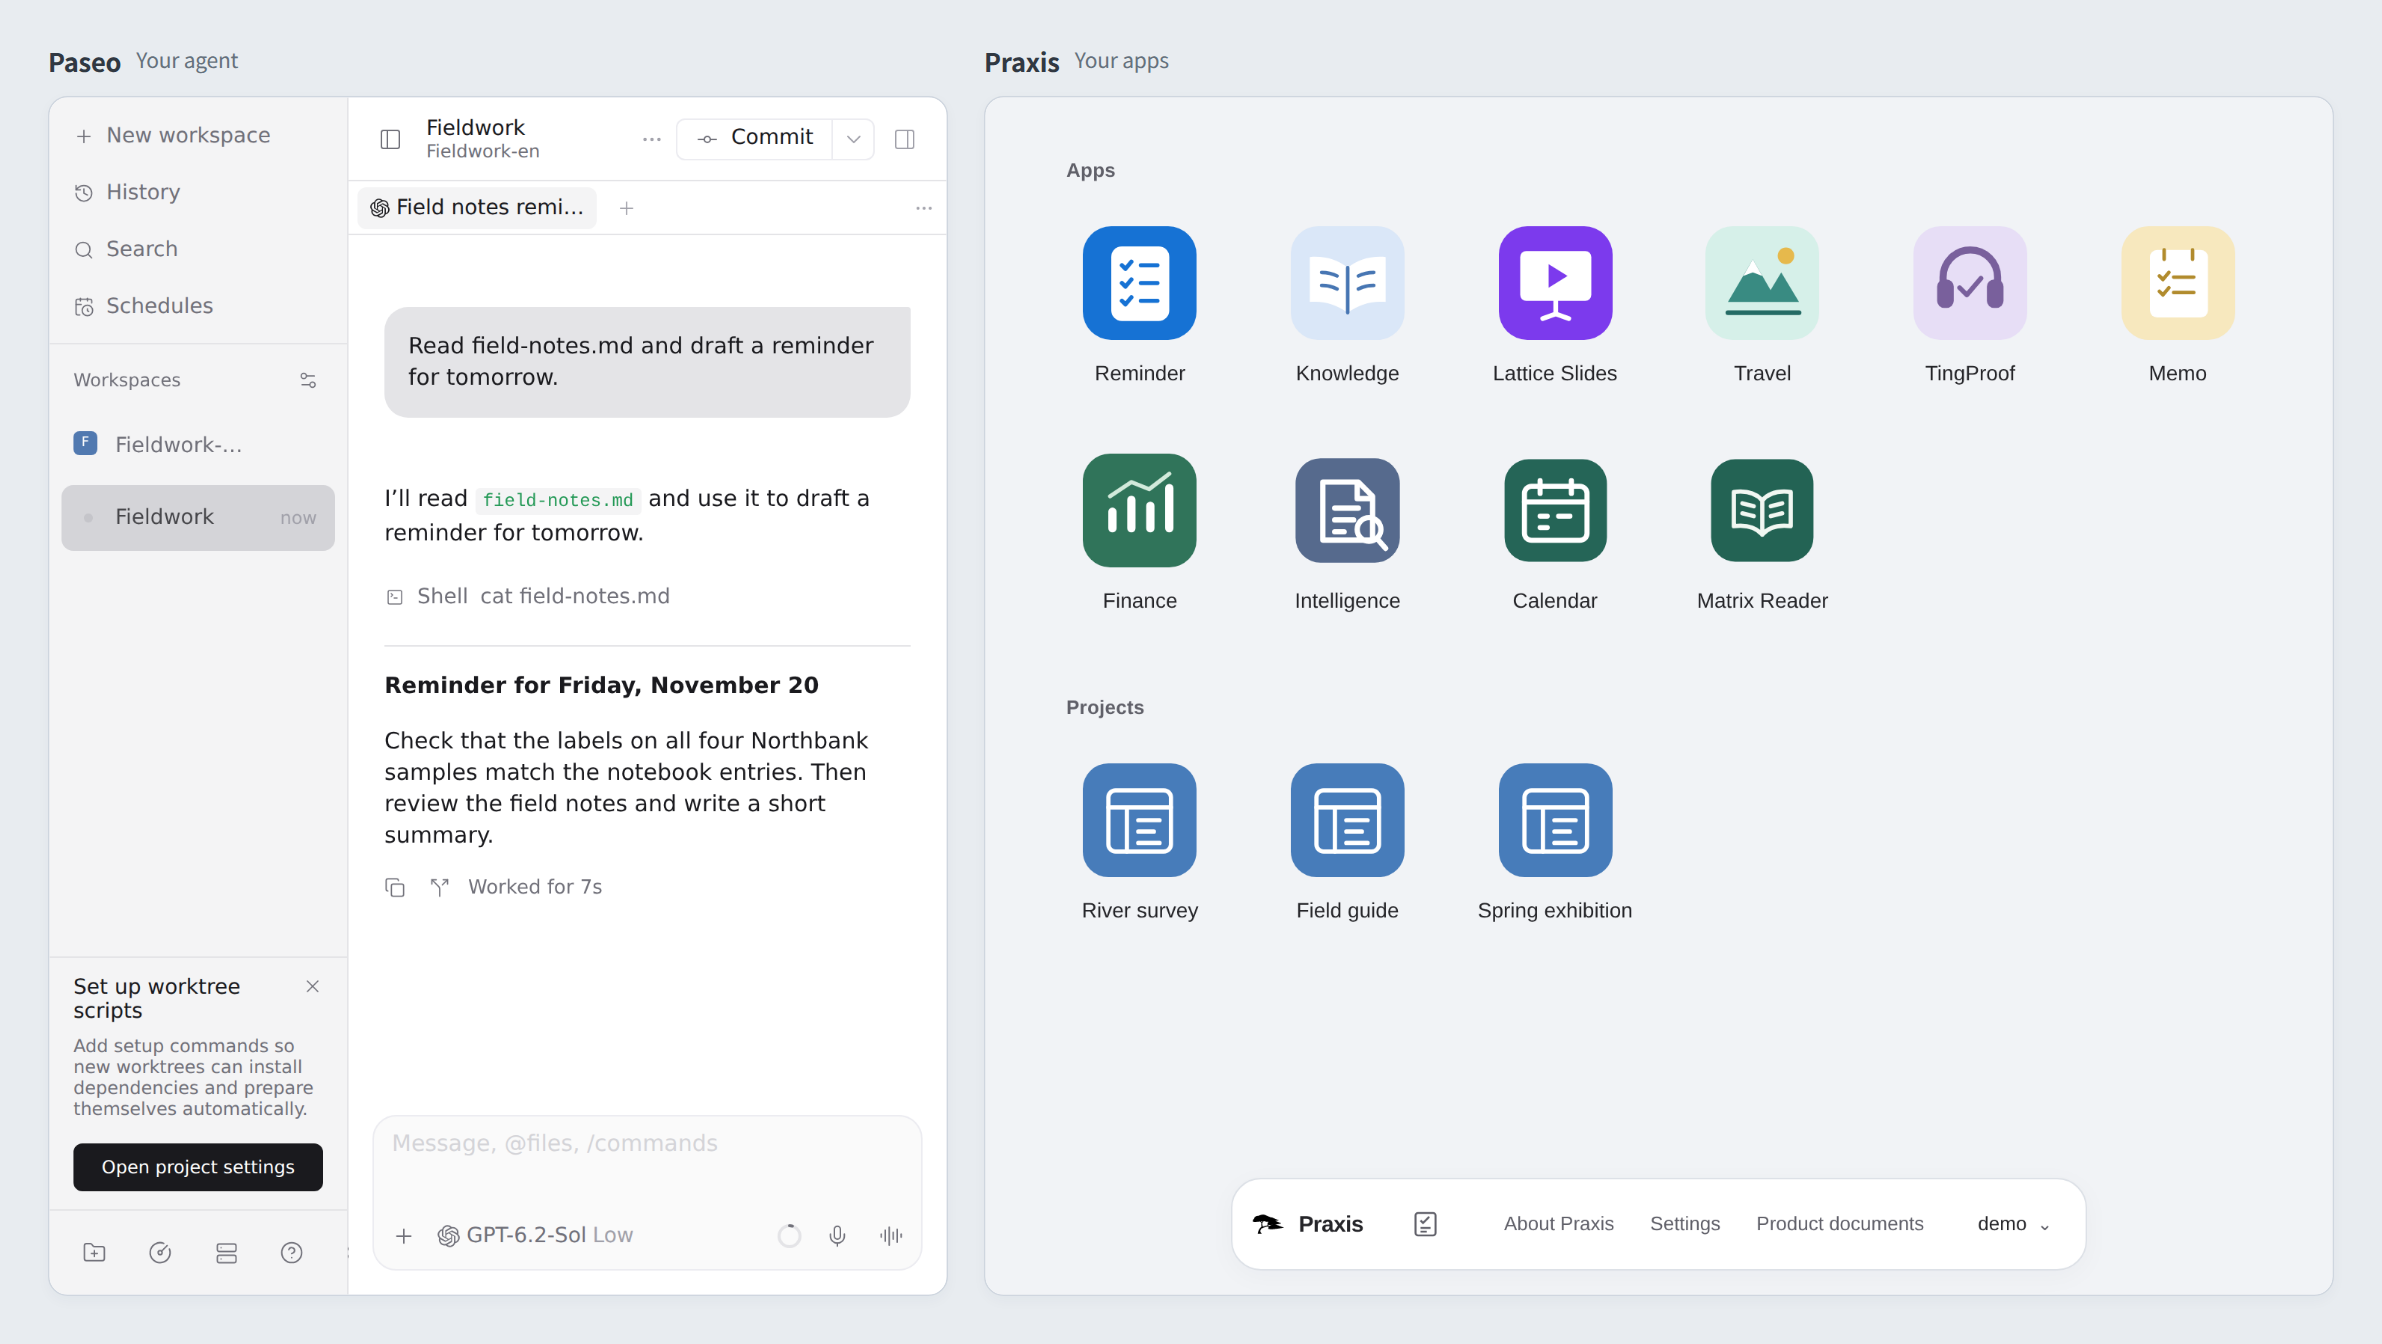
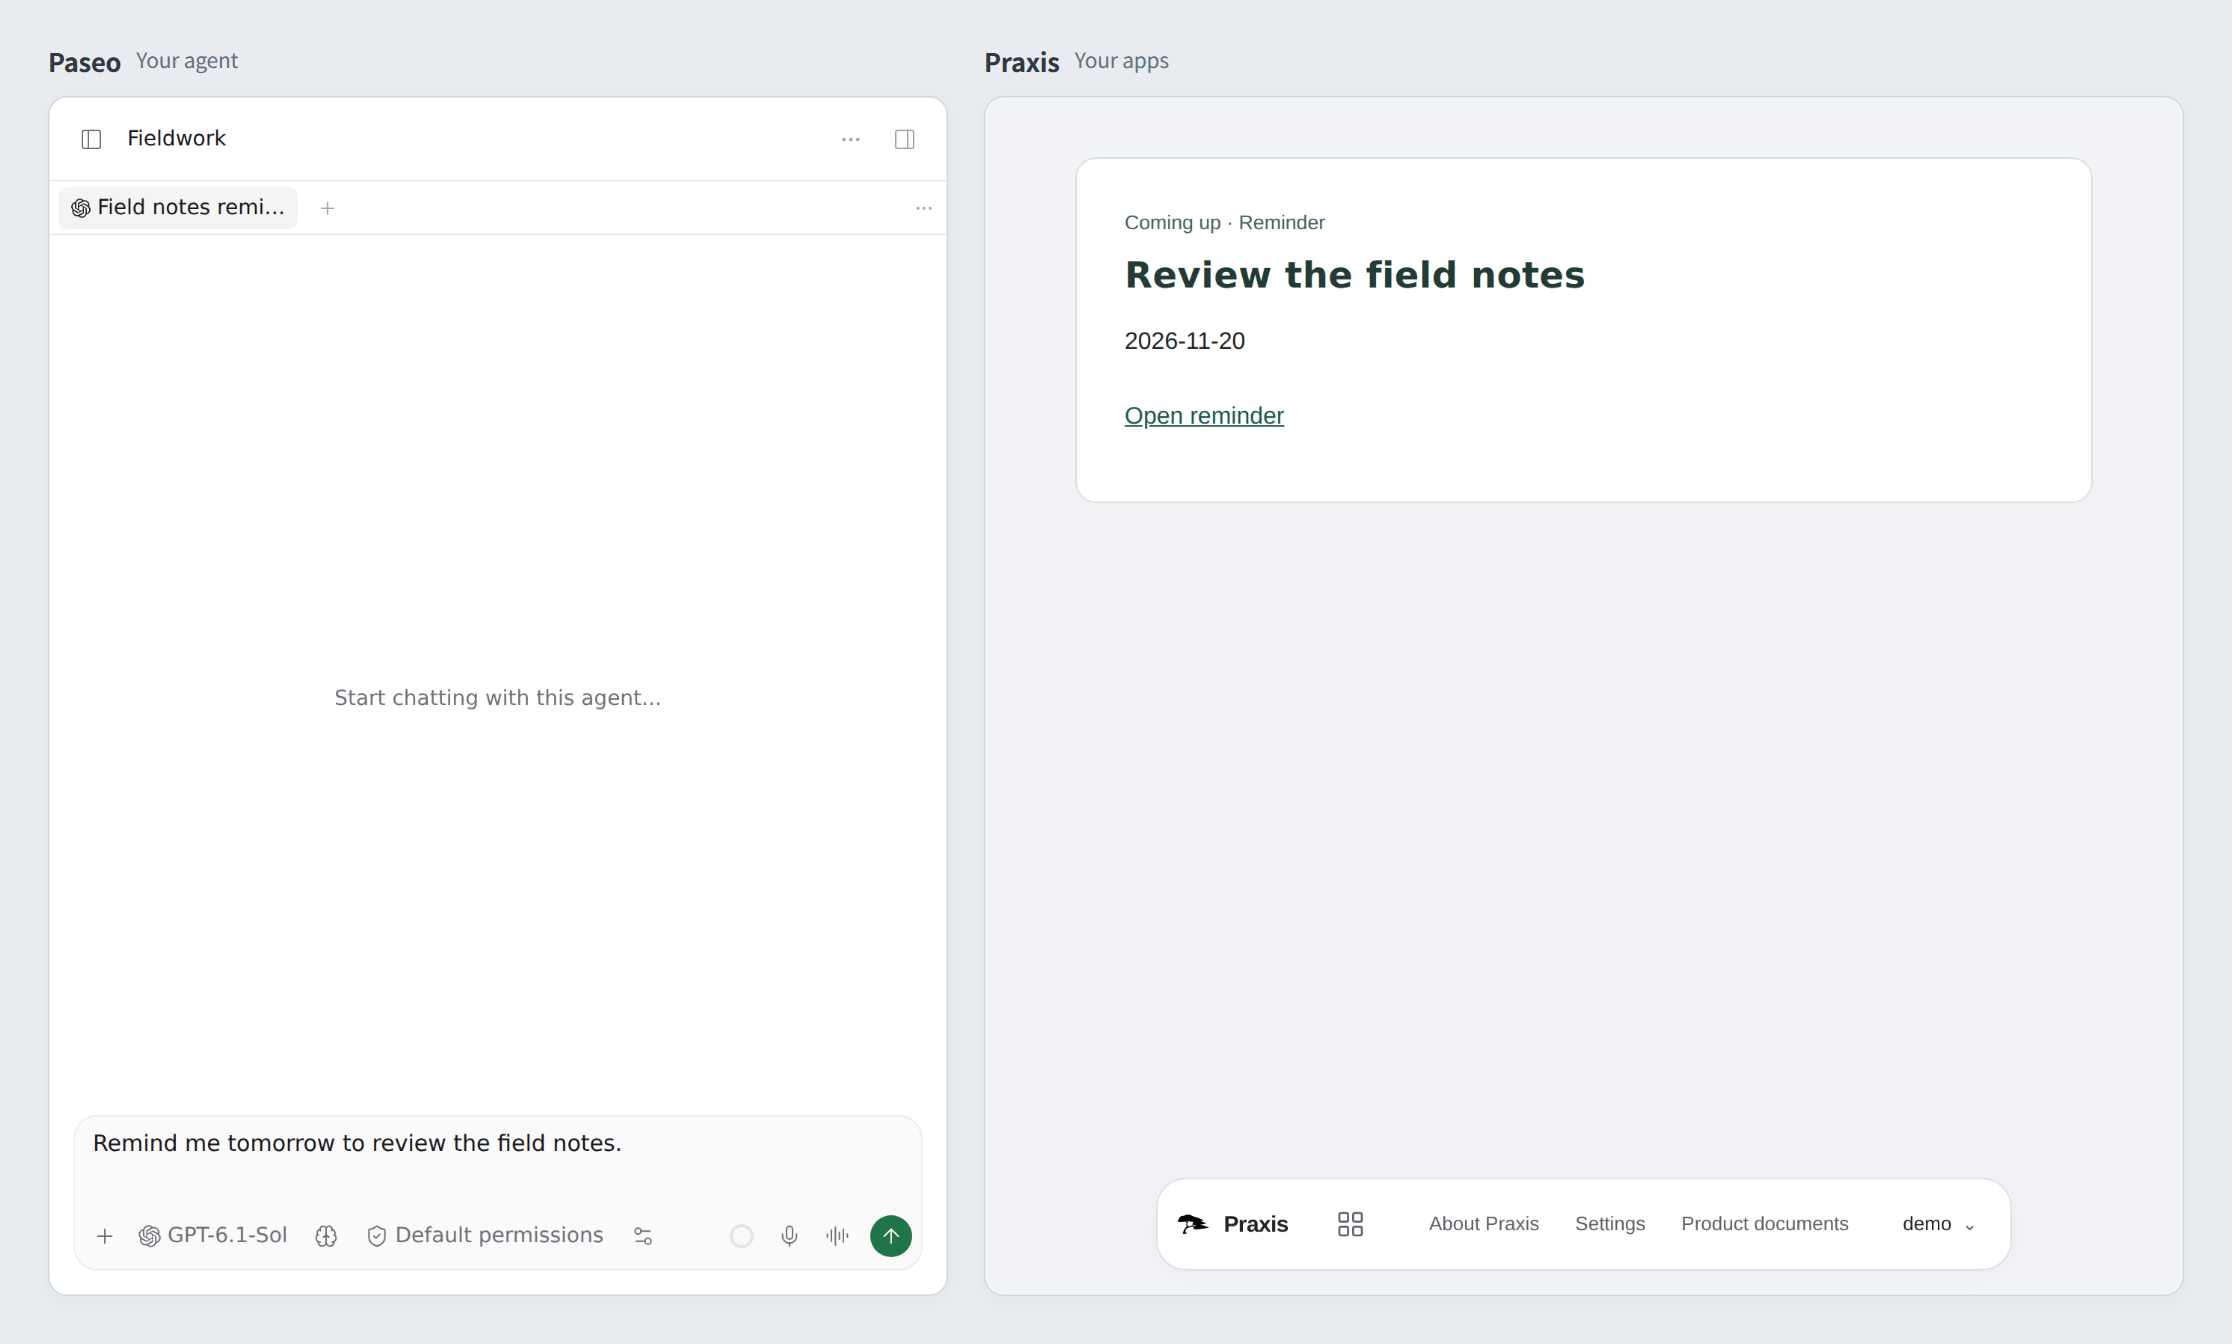
docs(readme): animate the prompt and reminder workbench views
Use real isolated Paseo and Praxis captures with synthetic reminder data. Show Apps with an empty composer, then the prompt and one Reminder card. Keep static PNG fallbacks for reduced motion.

diff --git a/README.md b/README.md
@@ -10,7 +10,10 @@ Praxis builds and polishes its built-in apps so people can read, watch or listen
 
 You can try the [hosted workbench](https://polaris.jianxiaoyitech.com/) before setting up your own instance.
 
-![Real Codex session in Paseo beside the Praxis workbench with synthetic demo records](docs/images/workbench-en.png)
+<picture>
+  <source media="(prefers-reduced-motion: reduce)" srcset="docs/images/workbench-en.png">
+  <img src="docs/images/workbench-en.gif" alt="Real Paseo input beside Praxis switching from Apps to a synthetic Reminder card">
+</picture>
 
 ## Quickstart
 
